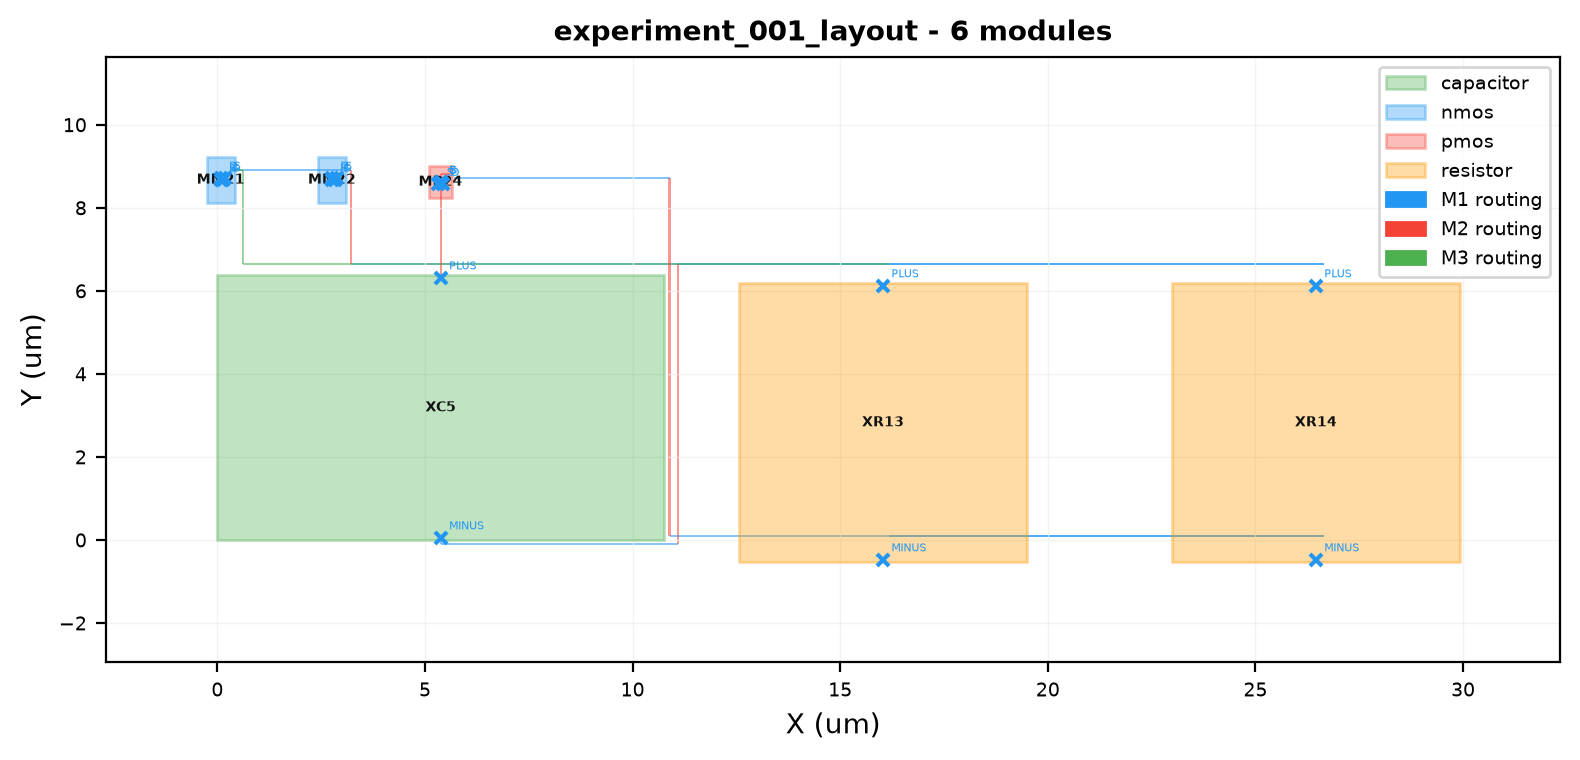
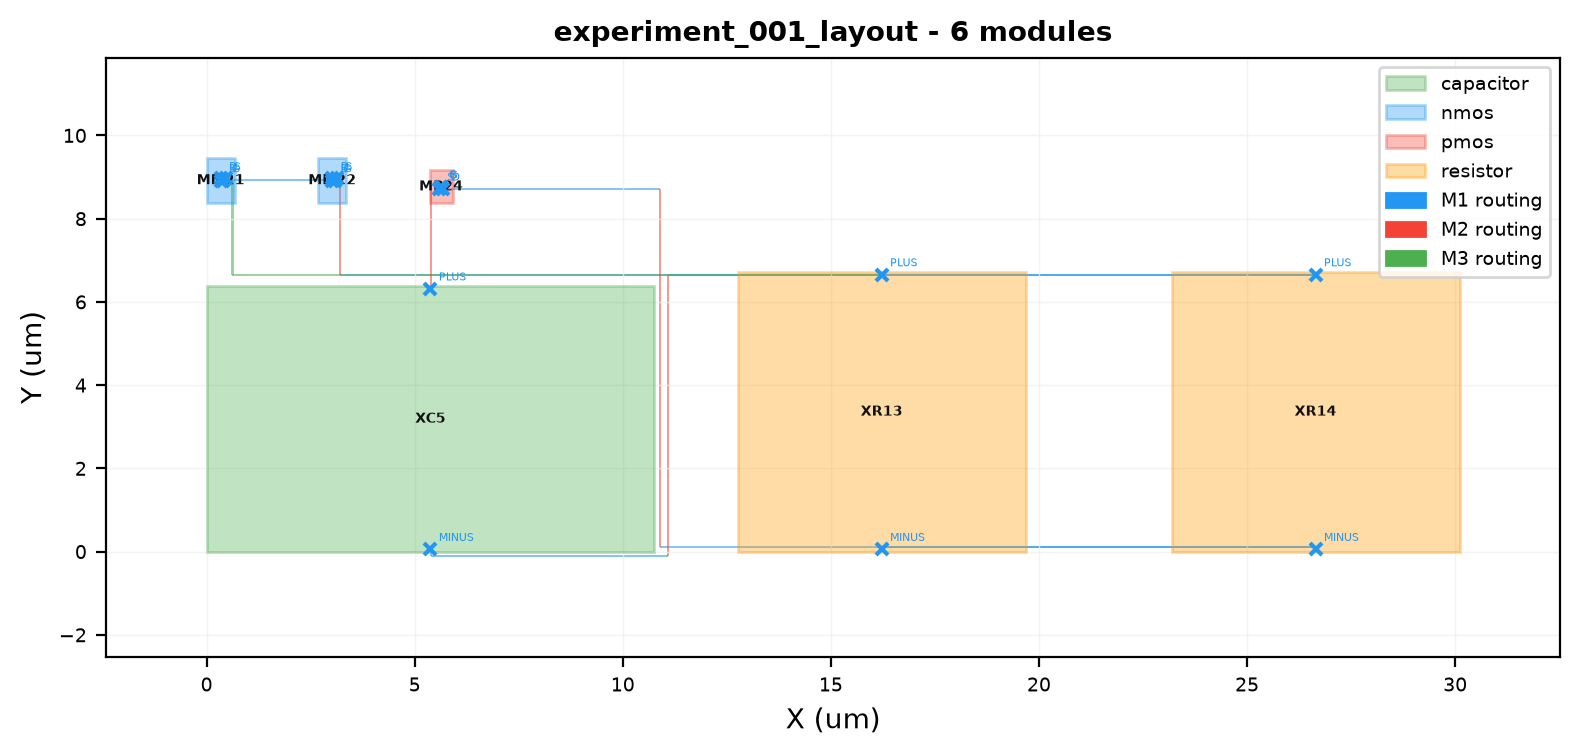
fix(tools): 修正layout渲染中的ox和oy重复偏移

diff --git a/tools/render_layout.py b/tools/render_layout.py
@@ -184,10 +184,8 @@ def load_routes(output_dir: Path) -> list[Route]:
     return routes
 
 
-# 将器件 BB 左下角局部坐标转换为全局坐标，语义对齐 src/geometry.cpp。
+# 将 BB 左下角局部坐标转换为全局坐标；ox/oy 仅作为 GDS 元数据保留。
 def transform_point(x: float, y: float, module: Module, placement: Placement) -> tuple[float, float]:
-    x += module.ox
-    y += module.oy
     orient = placement.orient
     if orient == "MY":
         x = -x